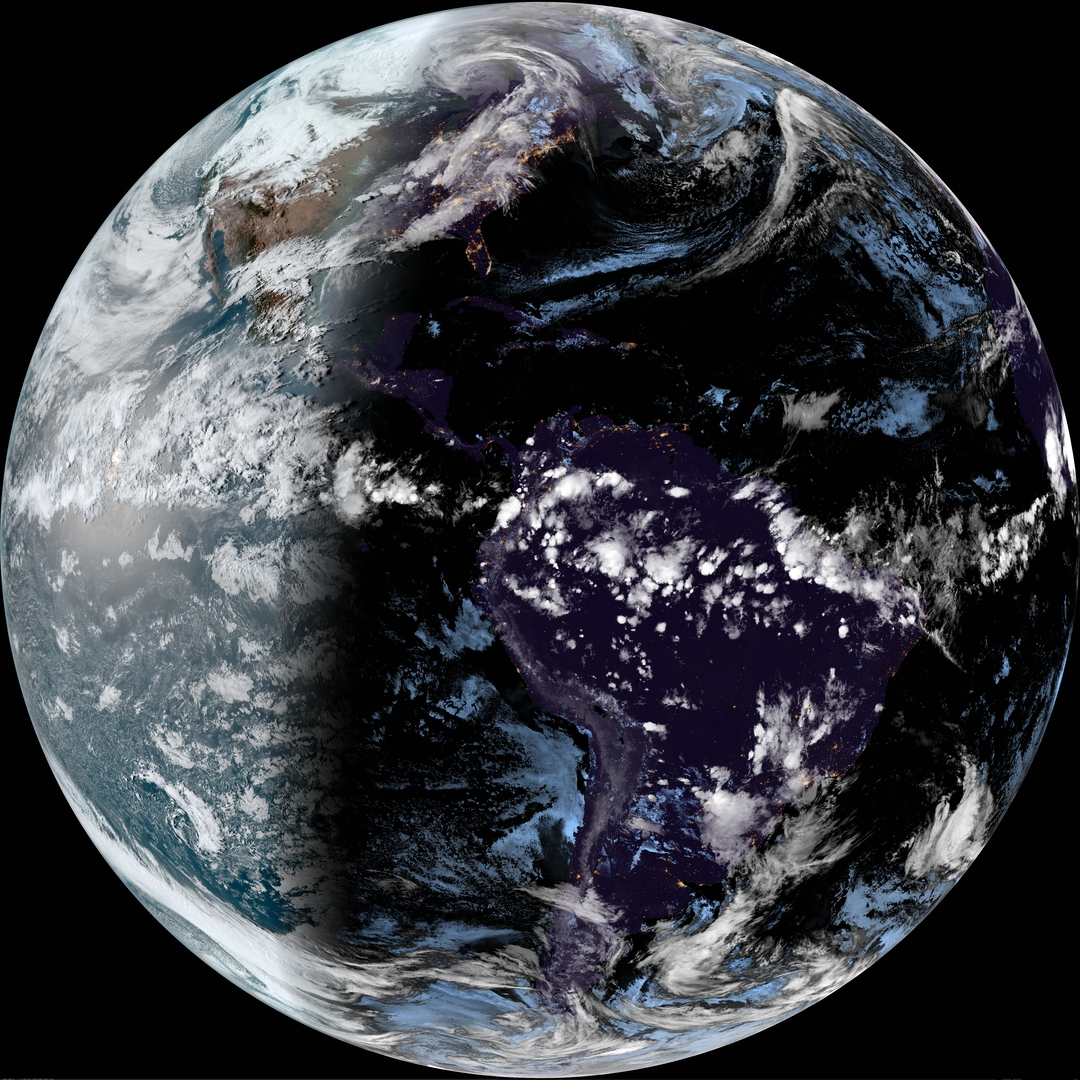
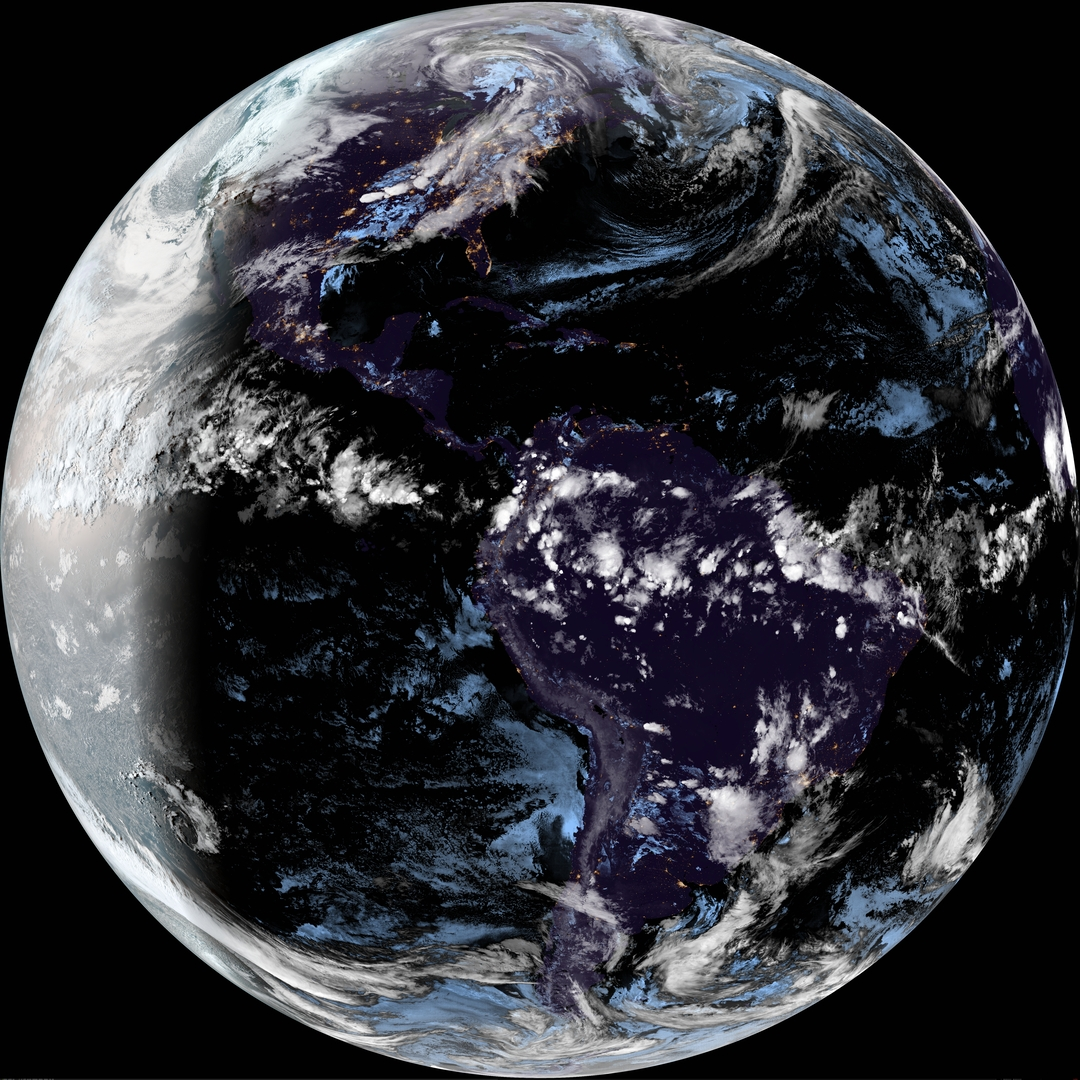
deploy: 185803dfc5cec4779eee2c0117295a1f5dc765f7

diff --git a/index.html b/index.html
@@ -16,6 +16,11 @@
       flex-direction: column;
       min-height: 100vh;
     }
+    .last-updated {
+      color: #999;
+      font-size: 12px;
+      text-align: center;
+    }
     .sats {
       display: flex;
       align-items: center;
@@ -45,6 +50,7 @@
       <a class="top-bar-link" href="https://github.com/ungoldman/satellites">🐈 github</a>
     </div>
   </nav>
+  <p class="last-updated">Last update on<date>2022-04-12 at 00:00 UTC</date>.<br>Updates every 6 hours.</p>
   <div class="sats">
     <img title="GOES-17 Full Disk GeoColor" src="./images/goes-17-latest.jpg">
     <img title="GOES-16 Full Disk GeoColor" src="./images/goes-16-latest.jpg">
